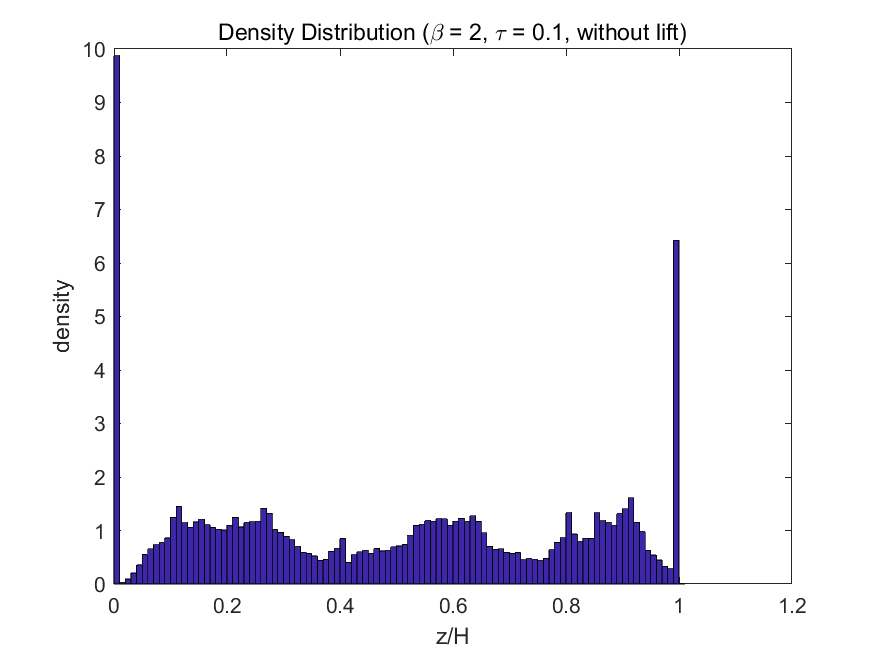
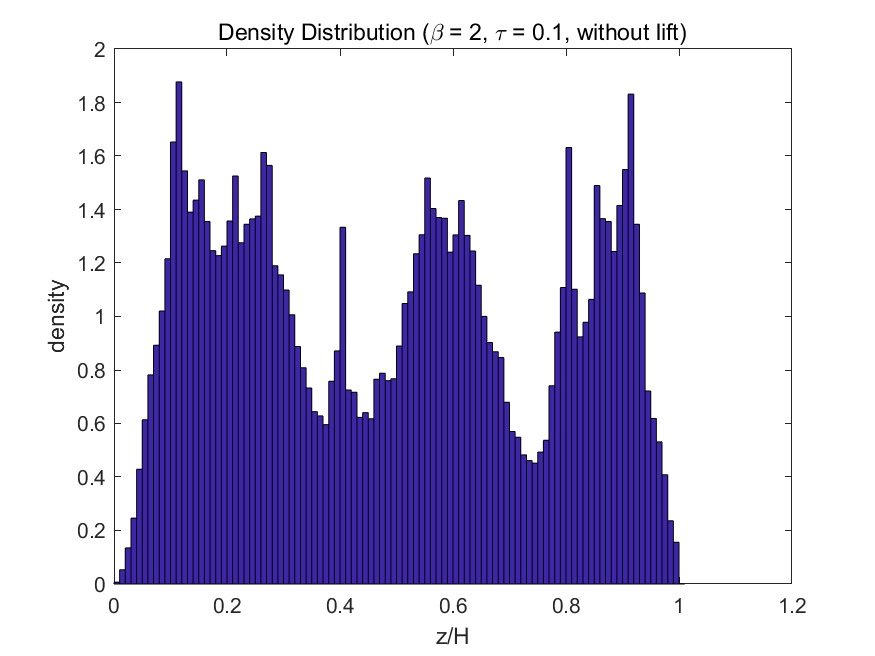
results update2

Changed region(s): [[0.0617, 0.0915, 0.8023, 0.8841], [0.0926, 0.061, 0.1234, 0.0915]]

diff --git a/main_nosaffman.m b/main_nosaffman.m
@@ -10,8 +10,8 @@ dt = 5e-3;         % 时间步长
 rho_c = 1;         % 流体密度
 
 % 无量纲参数
-beta = 2;  
-tau = 0.01;  % 弛豫时间tau(Stokes Number)
+beta = 0.01;  
+tau = 0.6;  % 弛豫时间tau(Stokes Number)
 
 % lambda = 400;        % 参数lambda
 % D = 0.001;          % 几何尺寸相关参数

diff --git a/Data_Analysis.m b/Data_Analysis.m
@@ -158,3 +158,6 @@ ylabel('z/H');
 title(sprintf('Particle Distribution in x-z Plane at y = %g (\\beta = %g, \\tau = %g)', y_phy_sec, beta, tau));
 hold off;
 saveas(gcf, sprintf('./figs/Particle_Distribution_xz_sec_%g.png',y_phy_sec));
+
+
+%% 计算所有的Particle Reynold Number

diff --git a/nosaff_data_analysis.m b/nosaff_data_analysis.m
@@ -1,5 +1,5 @@
-beta = 2;
-tau = 0.01;
+beta = 0.01;
+tau = 0.6;
 
 filename1 = sprintf('./results/nosaff_ensembleData_%g_%g.mat', beta, tau);
 filename2 = sprintf('./results/nosaff_pressure_gradient_%g_%g.mat', beta, tau);
